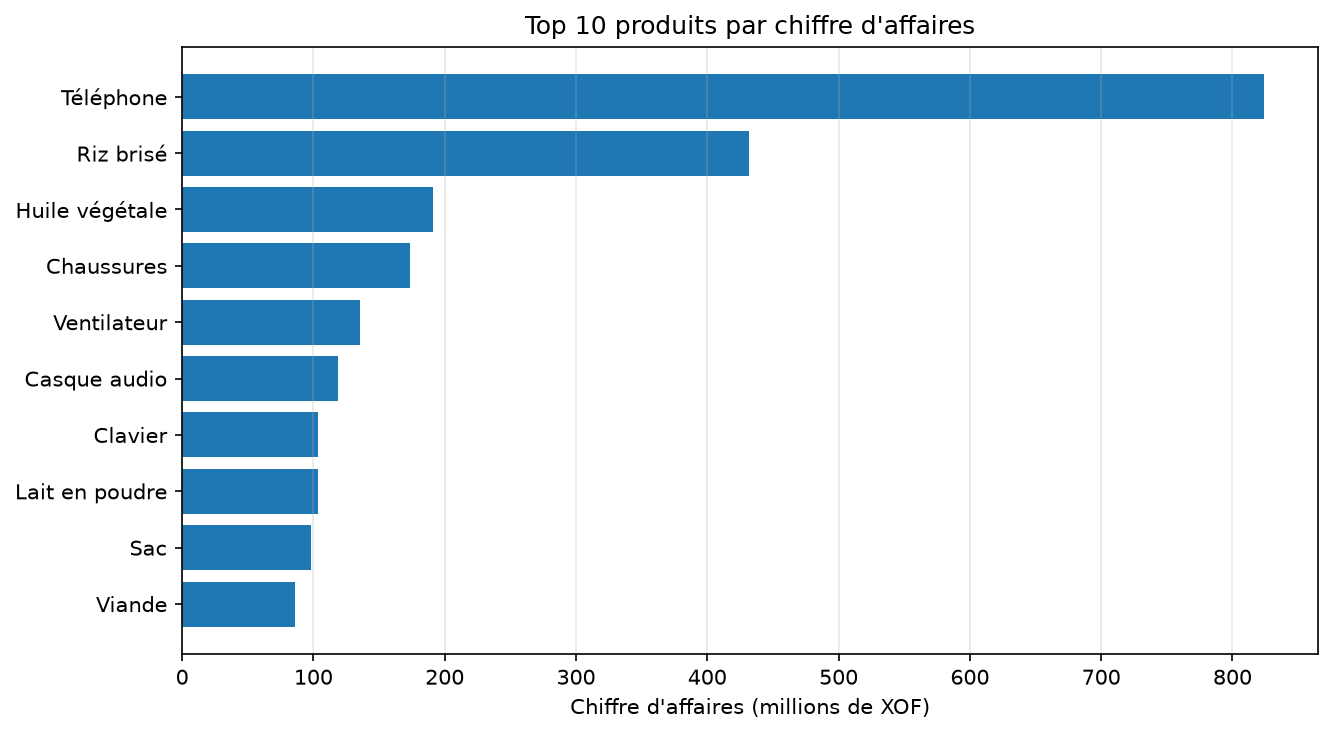
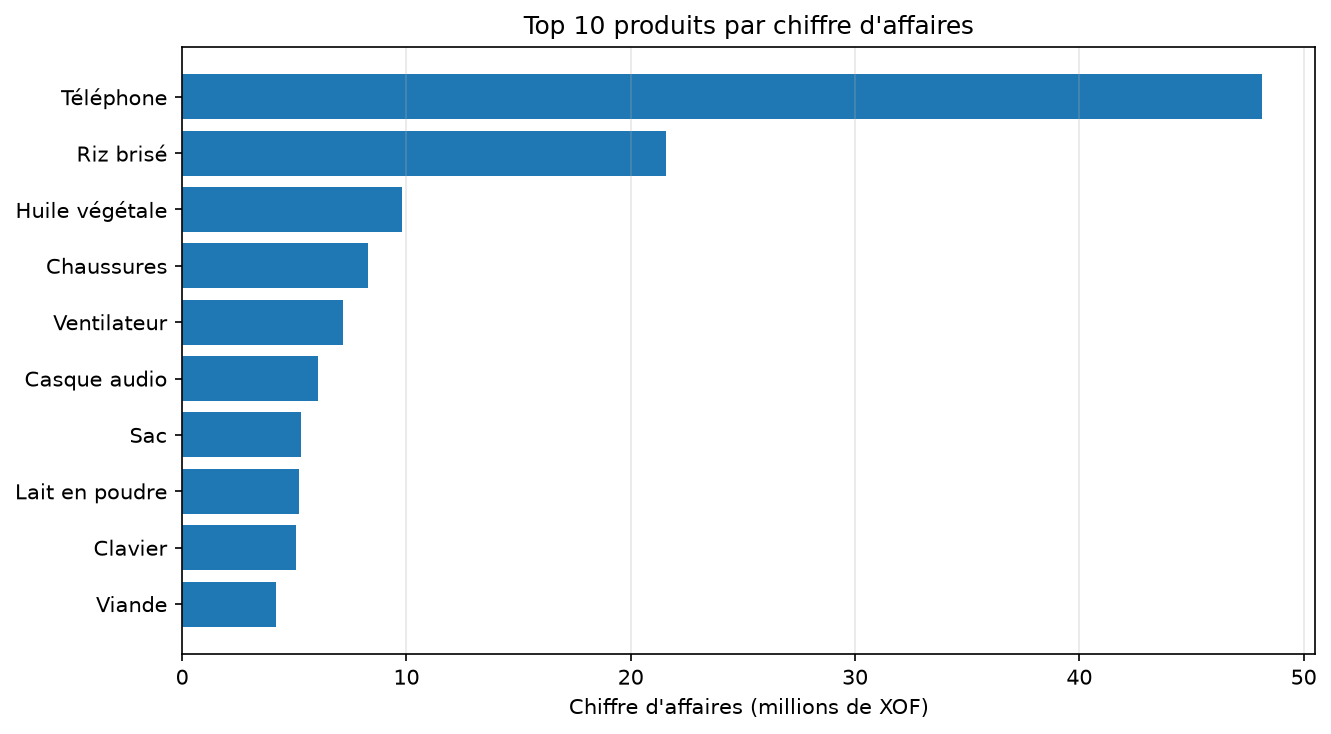
Documentation : partitions, décisions, README et docs, .env.example, lecture du .env

diff --git a/module_0/projet/src/senmarket/generateur.py b/module_0/projet/src/senmarket/generateur.py
@@ -32,6 +32,14 @@ from faker import Faker
 RACINE_PROJET = Path(__file__).resolve().parents[2]
 LOGGER = logging.getLogger(__name__)
 
+# Lire le fichier .env s'il existe (sans erreur si python-dotenv est absent).
+try:
+    from dotenv import load_dotenv
+
+    load_dotenv()
+except ImportError:
+    pass
+
 # Graine de base (configurable par l'environnement). La graine réelle d'une
 # exécution en dérive avec la date : voir graine_du_jour().
 GRAINE_BASE = int(os.environ.get("SENMARKET_SEED", "42"))

diff --git a/module_0/projet/docs/CONTRAT_DONNEES.md b/module_0/projet/docs/CONTRAT_DONNEES.md
@@ -167,3 +167,49 @@ Limites connues :
 - Un seul paiement par commande, même quand il est échoué (pas de nouvelle tentative).
 - Quantités et notes tirées uniformément de 1 à 5, sans loi de popularité.
 - Noms générés avec le locale `fr_FR`, pas avec des noms sénégalais.
+
+## 10. Organisation des données : les partitions
+
+Une **partition** est un dossier qui représente un lot de données, nommé `date=AAAA-MM-JJ`. Chaque exécution du pipeline avec `--run-date AAAA-MM-JJ` écrit dans les dossiers de cette date et n'écrase jamais les autres.
+
+```
+data/
+├── raw/date=AAAA-MM-JJ/         brut (sale) : 8 CSV, bilan_generation.csv, senmarket.log
+├── processed/date=AAAA-MM-JJ/   propre : CSV, Parquet (types propres), JSON Lines, analyses/
+└── rejected/date=AAAA-MM-JJ/    quarantaine : lignes rejetées avec leur raison, bilans
+```
+
+Deux axes se croisent : l'**étape** (brut, propre, rejeté) et le **lot** (la date). Pour savoir ce qu'est devenue une ligne, on compare les trois dossiers de la même date.
+
+### Pourquoi partitionner
+
+- **Ne rien écraser** : traiter aujourd'hui ne fait pas disparaître hier.
+- **Rejouer un seul lot** : on relance une date sans toucher aux autres (au Module 5, un backfill de 30 jours répète la même opération sur 30 dates).
+- **Lire seulement ce qu'il faut** : avec des millions de lignes, Spark ou DuckDB n'ouvrent que les dossiers utiles au lieu d'un fichier unique énorme. Le nom `clé=valeur` est un standard qu'ils reconnaissent, et la date devient une colonne.
+- **Comprendre une anomalie** : brut, propre et rejeté partagent la même date.
+
+### Nos deux partitions
+
+| Partition | Taille | Rôle |
+|---|---|---|
+| `date=2026-10-29` | 10 000 lignes de commande | travail quotidien, tests, analyses |
+| `date=2026-11-02` | 200 000 lignes de commande | « volume » : mesures de performance (index, temps de lecture) au Module 1 |
+
+Sur 10 000 lignes, une base répond en quelques millisecondes avec ou sans index : seules les mesures sur la grosse partition prouvent quelque chose.
+
+### Ce que veut dire la date d'un dossier
+
+Dans ce TP, la date du dossier est la date d'exécution (`--run-date`), pas celle des commandes : chaque lancement génère environ deux ans d'historique qui se terminent à cette date. Dans un vrai projet, la partition du 30 ne contiendrait que ce qui est arrivé le 30. Les périodes de nos deux partitions se chevauchent donc : ce sont **deux jeux de test indépendants**, pas deux jours de la même boutique.
+
+### Reproductibilité
+
+La graine aléatoire dérive de la date : `[SENMARKET_SEED, AAAAMMJJ]` (par exemple `[42, 20261029]`).
+
+- Même date et mêmes paramètres : mêmes fichiers (empreintes `sha256` identiques).
+- Dates différentes : jeux indépendants (clients, noms et montants différents).
+
+### Règle à retenir
+
+Les identifiants se répètent d'une partition à l'autre : `CLI0000001` existe dans les deux, pour deux personnes différentes. **Ne jamais charger deux partitions dans les mêmes tables** (au Module 1, la partition volume va dans son propre schéma PostgreSQL).
+
+Créer une partition : `python scripts/run_pipeline.py --run-date AAAA-MM-JJ --generer --rows 10000`.

diff --git a/module_0/projet/docs/DECISIONS.md b/module_0/projet/docs/DECISIONS.md
@@ -15,3 +15,7 @@ Pour chaque choix : ce qu'on a retenu, l'alternative rejetée et pourquoi. Les d
 | Clé dupliquée | Toutes les occurrences rejetées | Garder la première | Si les contenus diffèrent, aucune règle ne permet de choisir laquelle est la bonne. (Une copie *identique* est écartée, la première est gardée.) |
 | Ville manquante | Client conservé avec « Inconnue » | Supprimer le client | Supprimer un client ferait disparaître ses commandes en aval et fausserait le CA. |
 | Écriture des sorties | Tout calculer en mémoire, vérifier, puis écrire | Écrire au fil de l'eau | Un échec en cours de route ne doit laisser aucune sortie à moitié écrite. |
+| Partitions | Un dossier `date=AAAA-MM-JJ` par exécution, dans `raw`, `processed` et `rejected` | Un seul dossier de données, réécrit à chaque exécution | Rien n'est écrasé, une date se rejoue seule, Spark et DuckDB ne lisent que les dossiers utiles, et brut, propre et rejeté d'un même lot se retrouvent par leur date. |
+| Graine aléatoire | Dérivée de la date : `[SENMARKET_SEED, AAAAMMJJ]` | Graine fixe (42) pour toutes les dates | Même date : mêmes données (reproductible). Dates différentes : jeux indépendants. Avec une graine fixe, deux partitions avaient les mêmes premiers clients. |
+| Configuration | Fichier `.env` (ignoré par Git) et `.env.example` (versionné) | Valeurs écrites dans le code | On change la graine sans toucher au code, et aucun secret n'est versionné (indispensable dès le Module 1 pour les mots de passe). |
+| Installation du projet | `pyproject.toml` et `pip install -e .` | Imports `src.senmarket` uniquement | `import senmarket` doit marcher depuis n'importe quel dossier (notebooks, Module 1, Docker). Les deux écritures coexistent pour l'instant. |

diff --git a/module_0/projet/README.md b/module_0/projet/README.md
@@ -253,3 +253,15 @@ des fichiers différents.
 
 Prochaines étapes du fil rouge : charger ces tables dans PostgreSQL, MongoDB et Redis
 (étape 1), puis traiter de plus gros volumes avec Spark (étape 2).
+
+## Documentation du projet (dossier `docs/`)
+
+Le README dit comment utiliser le projet. Le détail est réparti dans `docs/`, un fichier par question, pour ne jamais écrire la même chose à deux endroits :
+
+| Fichier | Il répond à la question | Il contient |
+|---|---|---|
+| [`CONTRAT_DONNEES.md`](docs/CONTRAT_DONNEES.md) | Que contient chaque table ? | schéma des relations, colonnes et types, règles métier, trois définitions du chiffre d'affaires, écarts voulus et limites connues, organisation des données en partitions |
+| [`DECISIONS.md`](docs/DECISIONS.md) | Pourquoi ce choix plutôt qu'un autre ? | une ligne par décision : ce qui est retenu, l'alternative rejetée, la raison |
+| [`MESURES.md`](docs/MESURES.md) | Quelles preuves chiffrées, sur ma machine ? | machine, volume, temps de lecture et taille de chaque format ; généré par `python scripts/mesurer_formats.py`, ne pas modifier à la main |
+
+Les données sont rangées par **partitions** (un dossier `date=AAAA-MM-JJ` par exécution, dans `data/raw`, `data/processed` et `data/rejected`) : voir la section 10 de `docs/CONTRAT_DONNEES.md`.
